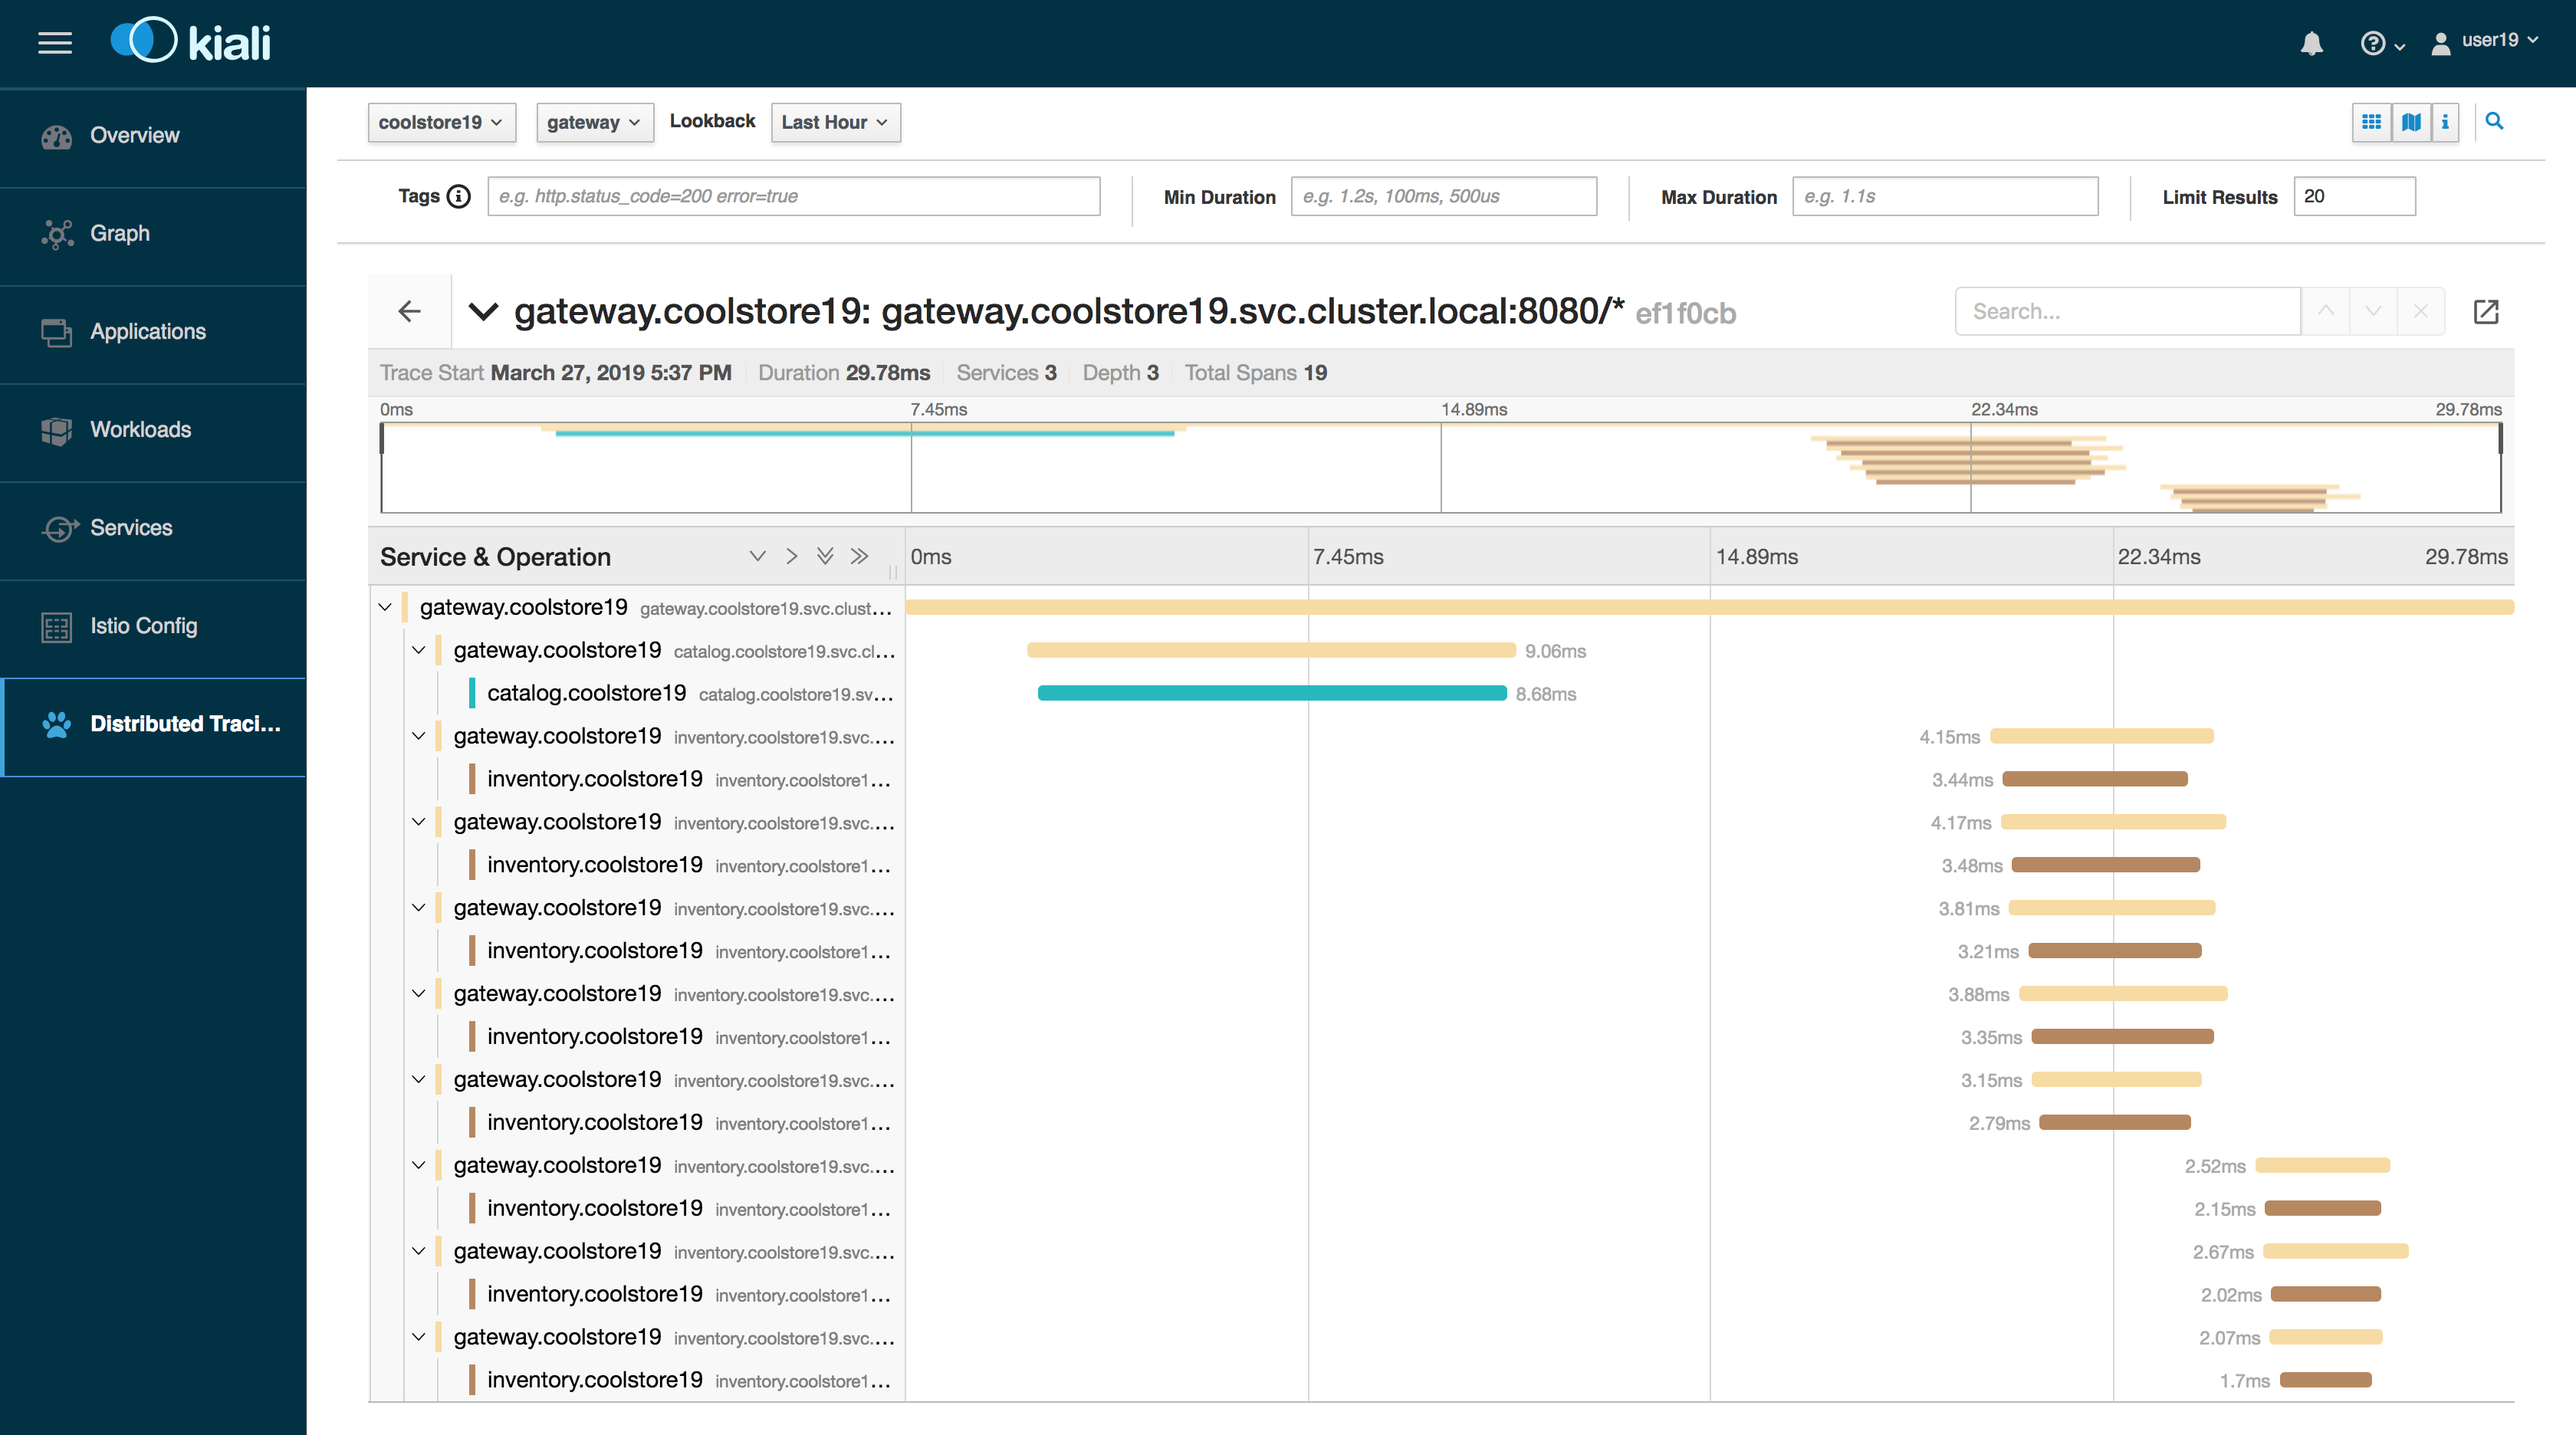
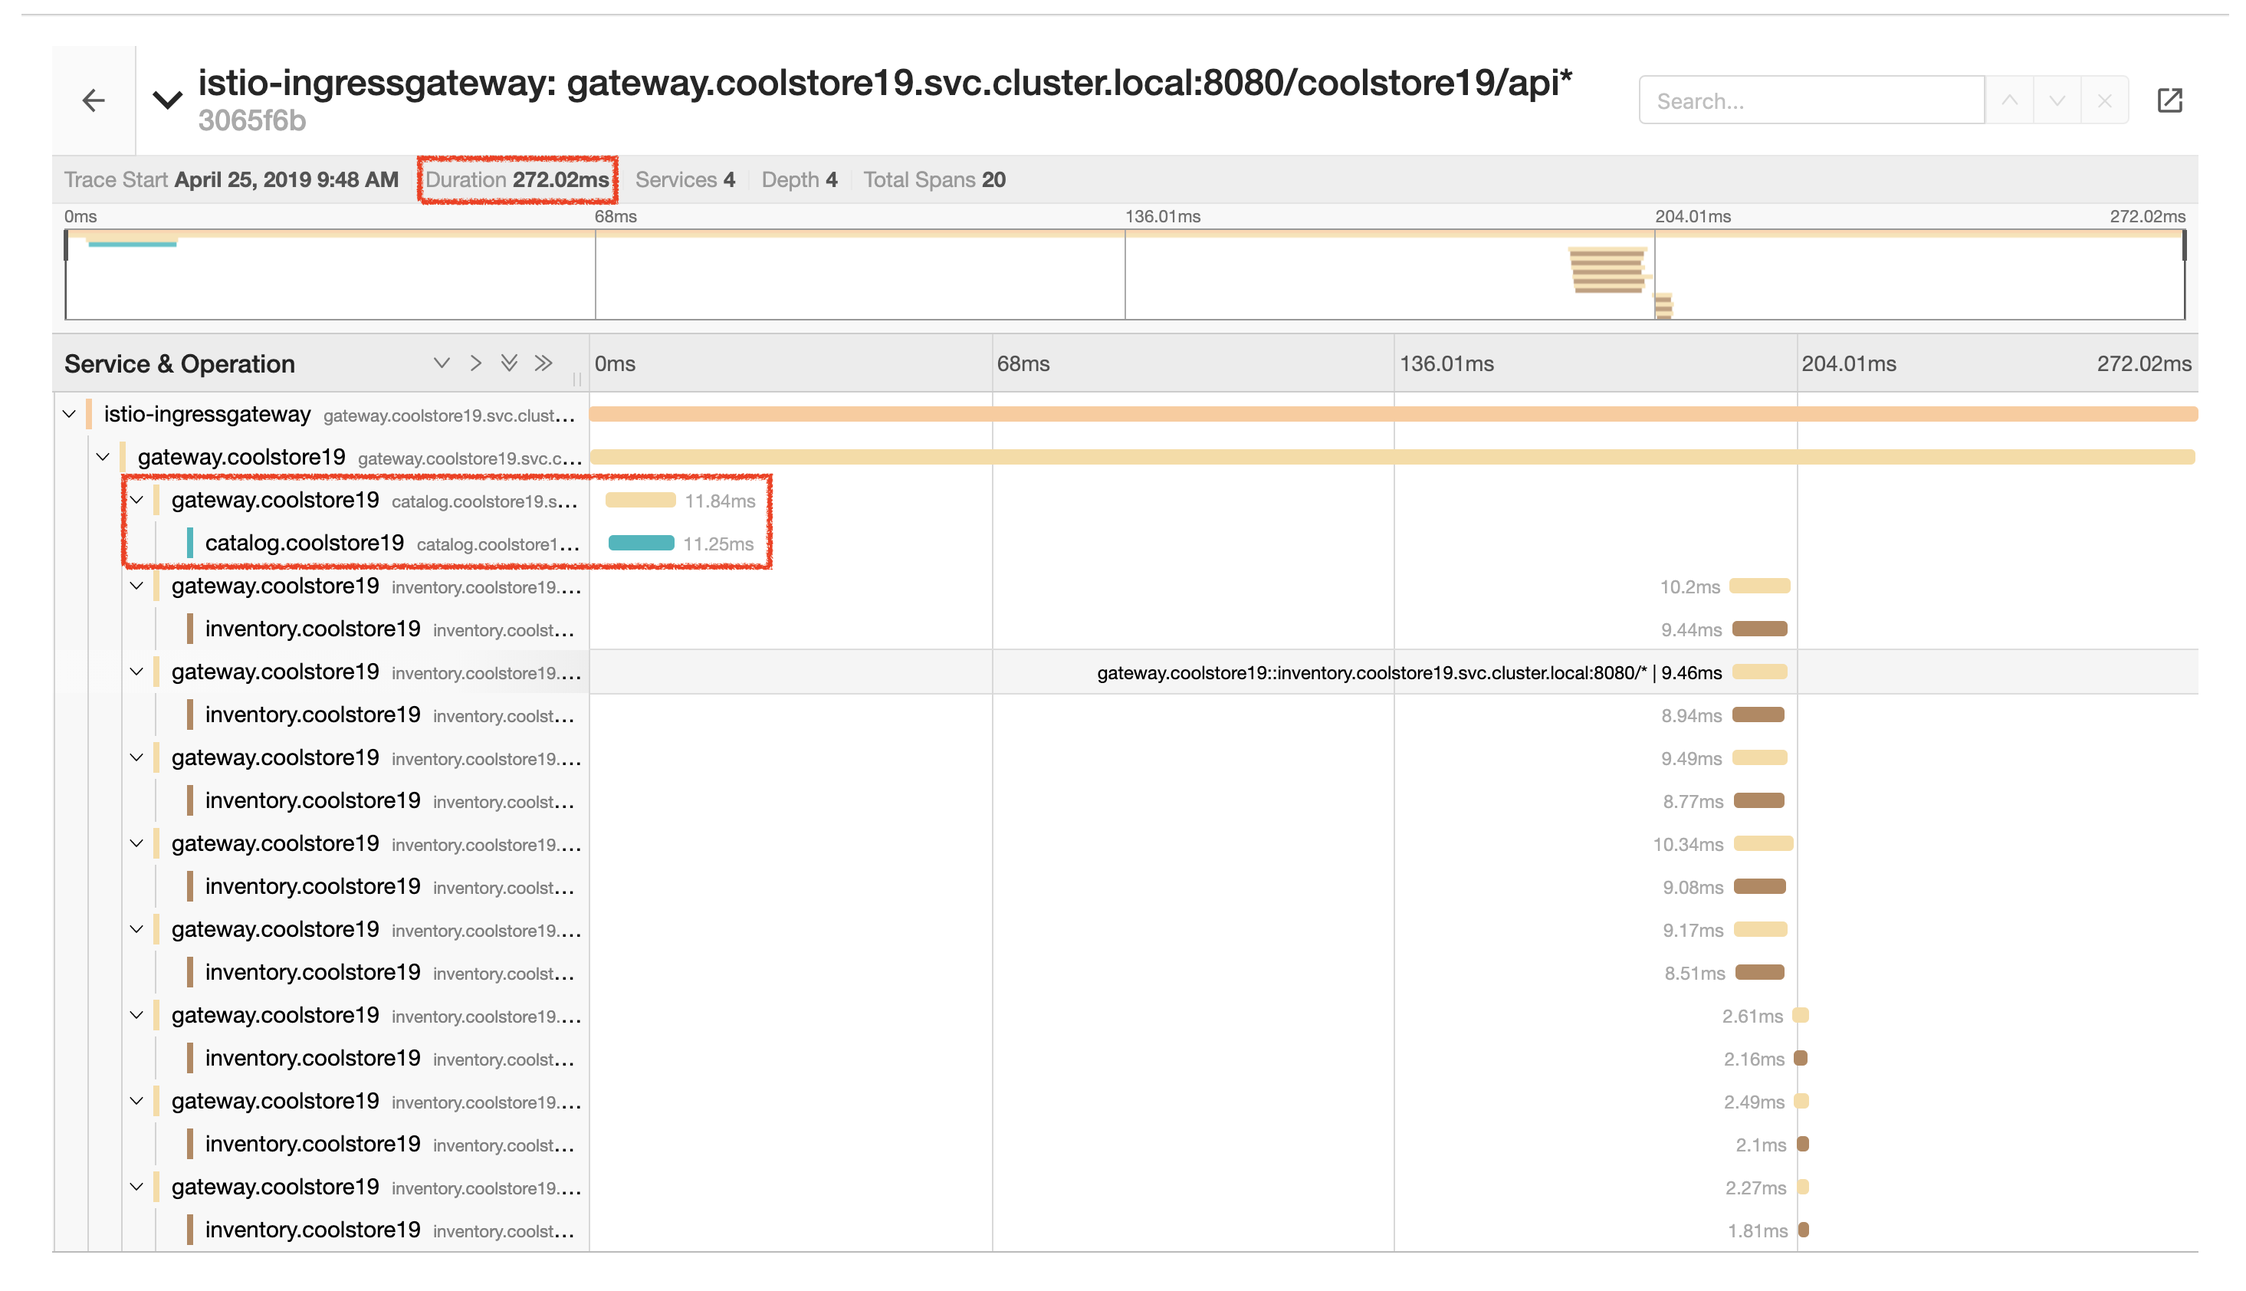
Updated Jaeger instructions

diff --git a/instructions/jaeger.md b/instructions/jaeger.md
@@ -1,8 +1,8 @@
 ## "Dream Within a Dream"
 
-*15 MINUTES PRACTICE*
+*20 MINUTES PRACTICE*
 
-As Cobb and Arthur in *Inception*, let's perform a *"Trace Within a Trace" Strategy* called **Distributed Tracing** using Red Hat Openshift Container Platform to infiltrate the application traces and extract valuable information to solve the issues
+As Cobb and Arthur in *Inception*, let's perform a *"Trace Within a Trace" Strategy* called **Distributed Tracing** using Red Hat OpenShift Container Platform to infiltrate the application traces and extract valuable information to solve the issues
 
 ![Inception]({% image_path inception.jpg %}){:width="300px"}
 
@@ -20,6 +20,8 @@ As Cobb and Arthur in *Inception*, let's perform a *"Trace Within a Trace" Strat
 
 [Kiali](https://www.kiali.io) includes [Jaeger Tracing](https://www.jaegertracing.io) to provide distributed tracing out of the box.
 
+> Because of certificates issues, you need first to access the main [Jaeger Console]({{ JAEGER_URL }}) to use it through Kiali.
+
 #### What are you hidding, Mr/Mrs *Application*?
 
 From the [Kiali Console]({{ KIALI_URL }}), **click on the Distributed Tracing link** in the left navigation and enter the following configuration:
@@ -28,12 +30,14 @@ From the [Kiali Console]({{ KIALI_URL }}), **click on the Distributed Tracing li
  * Select a Service: **gateway**
  * Then click on the **magnifying glass** on the right
 
-![Jaeger - Traces View]({% image_path jaeger-trace-2spans-view.png %}){:width="700px"}
+![Jaeger - Traces View]({% image_path jaeger-query.png %}){:width="800px"}
 
-By default, Service Mesh automatically sends collected tracing data to Jaeger, so that we are able to only see individual span (one-to-one service call).
+By default, **Service Mesh** automatically sends collected tracing data to Jaeger, so that we are able to **only see individual trace** (one-to-one service call).
 
-* 1 span for ***Gateway Service*** -> ***Catalog Service***
-* 7 spans for ***Gateway Service*** -> ***Inventory Service***
+* 1 individual trace for ***Gateway Service*** -> ***Catalog Service***
+* 7 individual traces for ***Gateway Service*** -> ***Inventory Service***
+
+![Jaeger - Traces View]({% image_path jaeger-trace-2spans-view.png %}){:width="800px"}
 
 As you have called several times the ***Gateway Service*** through the Web UI, you find much more than 8 spans in Jaeger and you cannot easily observe the entire trace for an end-to-end request.
 
@@ -43,7 +47,7 @@ As you have called several times the ***Gateway Service*** through the Web UI, y
 
 Let's enable Distributed Context Propagation from the ***Gateway Service***.
 
-First, you are going to intercept the following header creating by Service Mesh in order to add them into the outbound requests:
+First, you are going to intercept the following header creating by **Service Mesh** in order to add them into the outbound requests:
 
  * x-request-id
  * x-b3-traceid
@@ -155,19 +159,24 @@ $ oc start-build gateway-s2i --from-dir /projects/labs/gateway-vertx/ --follow
 ~~~
 
 ***Go back to Distributed Tracing menu*** from [Kiali Console]({{ KIALI_URL }}) and see the result.
-Now you have the aggreate trace for one request and it is much more better.
+Now you have the aggregated traces and it is much more better.
+
+![Jaeger - Trace Delay View]({% image_path jaeger-trace-delay-view.png %}){:width="700px"}
+
 On the left hand side, you have information like the duration.
-One call takes more than 400ms which you could judge as *normal* but ...
+One request takes **more than 400ms** which you could judge as *normal* but ...
 
-Let’s click on a trace title bar.
+**Let’s click on a trace title bar.**
 
-![Jaeger - Trace Detail View]({% image_path jaeger-trace-delay-detail-view.png %}){:width="700px"}
+![Jaeger - Trace Delay Detail View]({% image_path jaeger-trace-delay-detail-view.png %}){:width="700px"}
 
 Interesting... The major part of a call is consuming by the ***Catalog Service***.
 So let's have a look on its code. 
-Go through the **catalog-spring-boot** source code and find the following piece of code.
+Go through the **catalog-spring-boot** project and find the following piece of code:
 
 ~~~java
+@ResponseBody
+@GetMapping(produces = MediaType.APPLICATION_JSON_VALUE)
 public List<Product> getAll() {
     Spliterator<Product> products = repository.findAll().spliterator();
     Random random = new Random();
@@ -195,6 +204,8 @@ As you are an expert of Java 8, you are about to create a masterpiece by both si
 Replace the content of the ***getAll()*** method as following:
 
 ~~~java
+    @ResponseBody
+    @GetMapping(produces = MediaType.APPLICATION_JSON_VALUE)
     public List<Product> getAll() {
         Spliterator<Product> products = repository.findAll().spliterator();
         return StreamSupport.stream(products, false).collect(Collectors.toList());
@@ -203,9 +214,10 @@ Replace the content of the ***getAll()*** method as following:
 
 > Do not forget to import the missing packages.
 
-Now let's push the new version of the source code.
+Now let's check and push the new version of the source code.
 
 ~~~shell
+$ mvn package -f /projects/labs/catalog-spring-boot/
 $ oc start-build catalog-s2i --from-dir /projects/labs/catalog-spring-boot/ --follow
 ~~~
 
